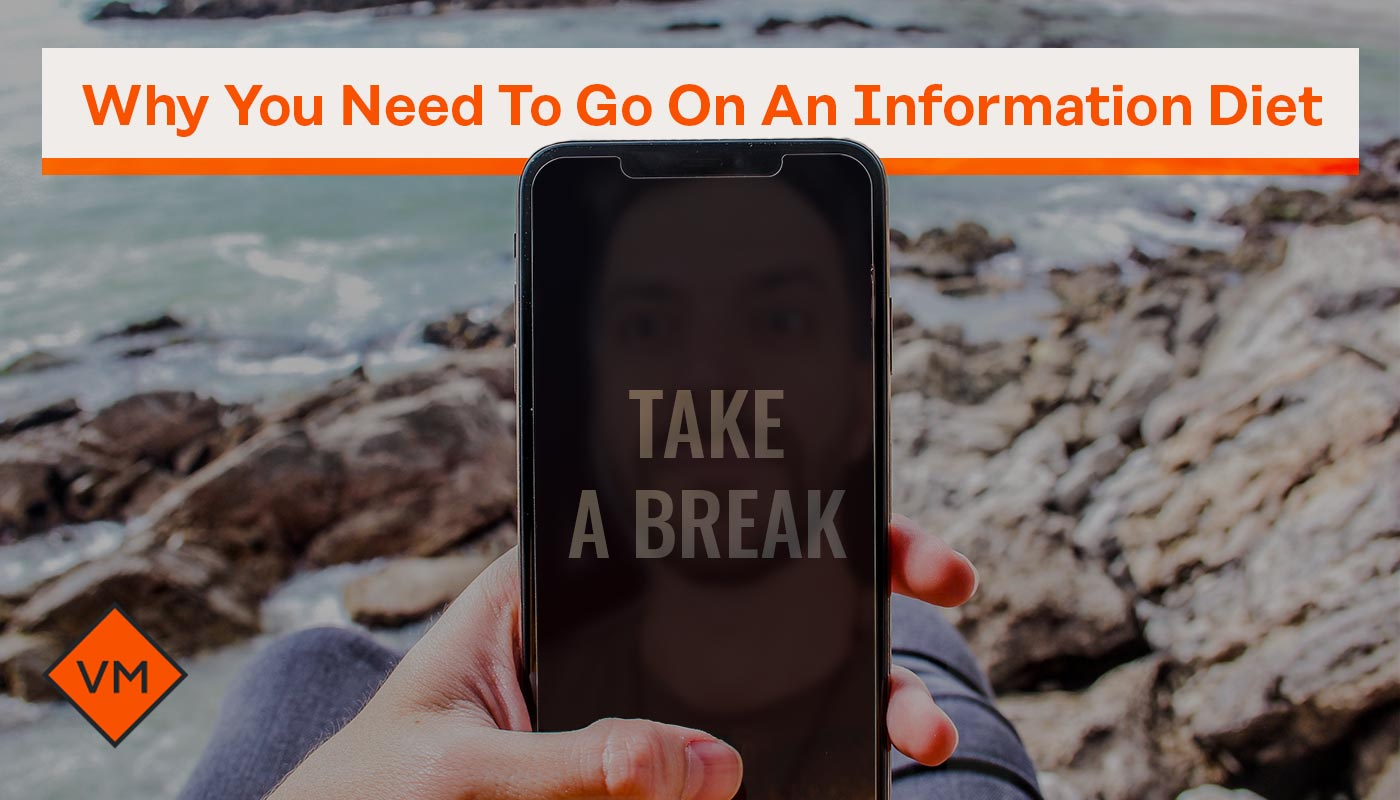
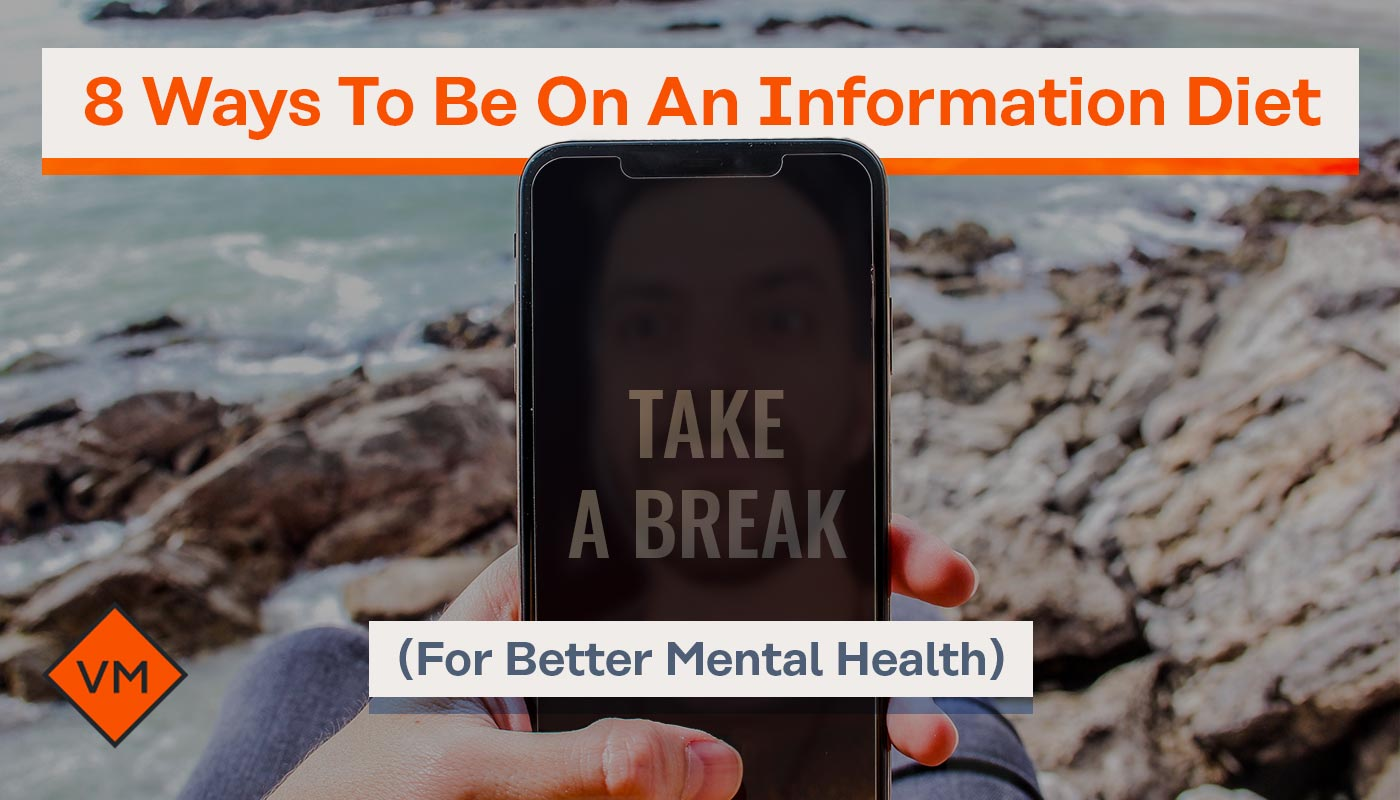
Update post title!

Changed region(s): [[0.2457, 0.75, 0.7371, 0.9062], [0.0614, 0.0938, 0.9521, 0.1875]]

diff --git a/content/articles/information-diet.md b/content/articles/information-diet.md
@@ -1,5 +1,5 @@
 ---
-title: Why You Need To Go On An Information Diet
+title: 8 Ways To Be On An Information Diet (For Better Mental Health)
 date: 02-11-2021
 prettyDate: February 11th, 2021
 author: Vasily Myazin
@@ -42,7 +42,7 @@ Without self-awareness and restraining we constantly stress ourselves out and gi
 
 6. **Have specific time windows to check your inboxes.** For example, you can agree with yourself to only check your phone or an email app on your laptop four times a day. Once in the morning for 10 mins, then once before lunch, once in the afternoon around 4:30, then once after dinner. It’s helpful to write these down on a piece of paper and put next to your work area. Stay with this schedule for three days, see how you feel.
 
-7. **Take stock of how information consumption makes you feel.** Think about replacing your "fast food" news and Netflix series items with "offline" activities. Choose to go for a walk, a bicycle ride, or a physical book instead. I find it helpful to build healthy "replacement links" (meaning *connections* or *associations*). If I get an urge to read the news, I instead read a few pages of a book. Instead of watching an episode of a show, I’ll walk around the block.
+7. **Take stock of how information consumption makes you feel and choose healthy replacements.** Think about replacing your "fast food" news and Netflix series items with "offline" activities. Choose to go for a walk, a bicycle ride, or a physical book instead. I find it helpful to build healthy "replacement links" (meaning *connections* or *associations*). If I get an urge to read the news, I instead read a few pages of a book. Instead of watching an episode of a show, I’ll walk around the block.
 
 8. **Make your policy known.** Casually explain to people in your circle that you may not get back to them immediately. If you are concerned about missing something important, make sure you let the important people in your life know that you can be reached by a text or Whatsapp message where they’d ideally need to mention what the urgency is. Chances are, 90% of other people’s urgencies are not so crucial in your life.
 
